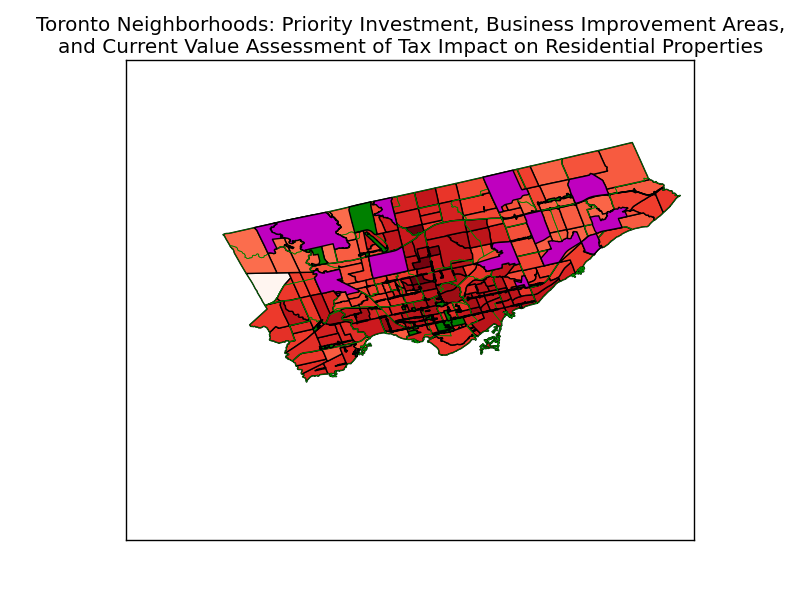
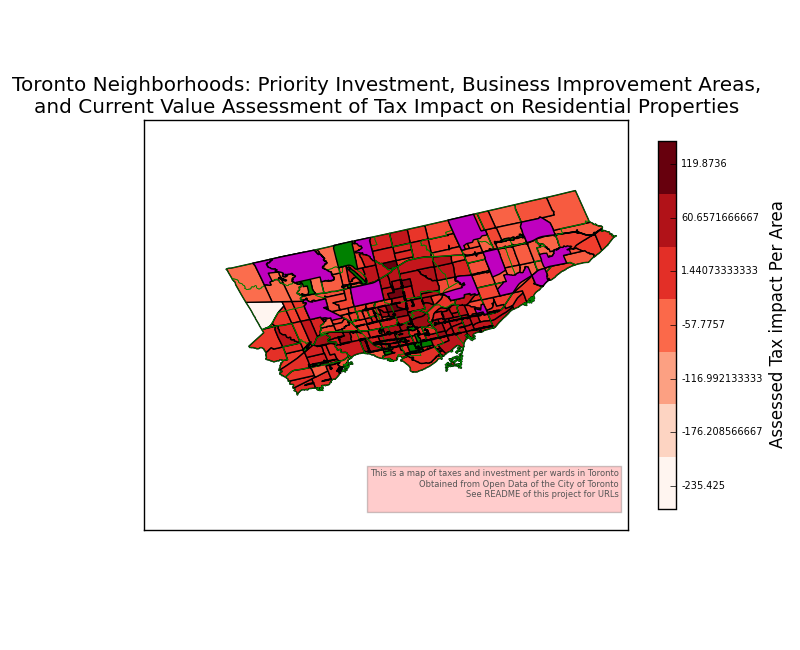
discretized matplotlib colorbar for the taxes in Toronto wards, automatically saving the fig to PNG, and set_tight_layout() and set_size_inches()

Changed region(s): [[0.0, 0.03, 1.0, 0.93]]

diff --git a/visualiz_investm_toronto_neighborhoods.py b/visualiz_investm_toronto_neighborhoods.py
@@ -40,55 +40,6 @@ import matplotlib.cm as cm
 import numpy as np
 
 
-# The following two functions, colorbar_index() and cmap_discretize()
-# are taken from:
-#   http://sensitivecities.com/so-youd-like-to-make-a-map-using-python-EN.html
-# and
-#
-
-# Convenience functions for working with colour ramps and bars
-def colorbar_index(ncolors, cmap, labels=None, **kwargs):
-    """
-    This is a convenience function to stop you making off-by-one errors
-    Takes a standard colour ramp, and discretizes it,
-    then draws a colour bar with correctly aligned labels
-    """
-    cmap = cmap_discretize(cmap, ncolors)
-    mappable = cm.ScalarMappable(cmap=cmap)
-    mappable.set_array([])
-    mappable.set_clim(-0.5, ncolors+0.5)
-    colorbar = plt.colorbar(mappable, **kwargs)
-    colorbar.set_ticks(np.linspace(0, ncolors, ncolors))
-    colorbar.set_ticklabels(range(ncolors))
-    if labels:
-        colorbar.set_ticklabels(labels)
-    return colorbar
-
-
-def cmap_discretize(cmap, N):
-    """
-    Return a discrete colormap from the continuous colormap cmap.
-
-        cmap: colormap instance, eg. cm.jet. 
-        N: number of colors.
-
-    Example
-        x = resize(arange(100), (5,100))
-        djet = cmap_discretize(cm.jet, 5)
-        imshow(x, cmap=djet)
-
-    """
-    if type(cmap) == str:
-        cmap = get_cmap(cmap)
-    colors_i = np.concatenate((np.linspace(0, 1., N), (0., 0., 0., 0.)))
-    colors_rgba = cmap(colors_i)
-    indices = np.linspace(0, 1., N + 1)
-    cdict = {}
-    for ki, key in enumerate(('red', 'green', 'blue')):
-        cdict[key] = [(indices[i], colors_rgba[i - 1, ki], colors_rgba[i, ki]) for i in xrange(N + 1)]
-    return LinearSegmentedColormap(cmap.name + "_%d" % N, cdict, 1024)
-
-
 def visualize_investment_in_toronto():
     """Function to visualize the investment in the neighborhoods of
     Toronto.
@@ -198,16 +149,26 @@ def visualize_investment_in_toronto():
 
     cmap = plt.get_cmap('Reds')
     patch_collection = PatchCollection(patches, match_original=True)
-    norm = Normalize(vmin=min(taxes), vmax=max(taxes))
+    min_taxes = min(taxes)
+    max_taxes = max(taxes)
+    norm = Normalize(min_taxes, max_taxes)
     patch_collection.set_facecolor(cmap(norm(taxes)))
 
     axes.add_collection(patch_collection)
 
     # Add a colour bar
-    cb = colorbar_index(ncolors=len(taxes), cmap=cmap, shrink=0.7,
-                         labels=taxes)
-    # Set the font-size of the label
-    cb.ax.tick_params(labelsize=7)
+    delta_gradient_taxes = max_taxes - min_taxes
+    color_bar_taxes = [min_taxes]
+    for i in range(1, 6):
+        color_bar_taxes.append(min_taxes + (i/6.0) * delta_gradient_taxes)
+    color_bar_taxes.append(max_taxes)
+
+    clor_bar = colorbar_index(ncolors=len(color_bar_taxes), cmap=cmap,
+                              shrink=0.6, labels=color_bar_taxes,
+                              format='%.2f')
+    # Set the font-size of the tick labels in the color bar
+    clor_bar.ax.tick_params(labelsize=7)
+    clor_bar.set_label(label='Assessed Tax Impact per Area')
 
     # Show highest densities, in descending order
     # highest = '\n'.join(
@@ -216,7 +177,7 @@ def visualize_investment_in_toronto():
 
     # Subtraction is necessary for precise y coordinate alignment
 
-    # details = cb.ax.text(
+    # details = clor_bar.ax.text(
     #    -1., 0 - 0.007,
     #    highest,
     #    ha='right', va='bottom',
@@ -227,13 +188,13 @@ def visualize_investment_in_toronto():
     # ( http://matplotlib.org/api/axes_api.html#matplotlib.axes.Axes.text )
 
     smallprint = axes.text(
-       0.98, 0.05,
-       'This is a map of taxes and investment per wards in Toronto\nObtained from Open Data of the City of Toronto\nSee README of this project for URLs\n',
-       horizontalalignment='right', verticalalignment='bottom',
-       size=4,
-       color='#555555',
-       bbox=dict(facecolor='red', alpha=0.2),
-       transform=axes.transAxes)
+        0.98, 0.05,
+        'This is a map of taxes and investment per wards in Toronto\nObtained from Open Data of the City of Toronto\nSee README of this project for URLs\n',
+        horizontalalignment='right', verticalalignment='bottom',
+        size=6,
+        color='#555555',
+        bbox=dict(facecolor='red', alpha=0.2),
+        transform=axes.transAxes)
 
     # Draw a map scale
 
@@ -246,13 +207,14 @@ def visualize_investment_in_toronto():
     #    fontcolor='#555555',
     #    zorder=5)
 
-    plt.tight_layout()
-    fig.set_size_inches(7.22, 5.25)
+    fig.set_tight_layout(True)
+    fig.set_size_inches(8, 6.5)
 
     plt.title('Toronto Neighborhoods: Priority Investment, Business ' +
               'Improvement Areas,\nand Current Value Assessment of Tax ' +
               'Impact on Residential Properties')
     # plt.legend()
+    fig.savefig('TO_developm_neighborhoods.png')
     plt.show()
 
 
@@ -264,6 +226,56 @@ def main():
     """
 
     visualize_investment_in_toronto()
+
+
+# The following two functions, colorbar_index() and cmap_discretize()
+# are taken from, with some very minor changes:
+#   http://sensitivecities.com/so-youd-like-to-make-a-map-using-python-EN.html
+# and
+#   http://brandonrose.org/pythonmap
+
+# Convenience functions for working with colour ramps and bars
+def colorbar_index(ncolors, cmap, labels=None, **kwargs):
+    """
+    This is a convenience function to stop you making off-by-one errors
+    Takes a standard colour ramp, and discretizes it,
+    then draws a colour bar with correctly aligned labels
+    """
+    cmap = cmap_discretize(cmap, ncolors)
+    mappable = cm.ScalarMappable(cmap=cmap)
+    mappable.set_array([])
+    mappable.set_clim(-0.5, ncolors+0.5)
+    colorbar = plt.colorbar(mappable, **kwargs)
+    colorbar.set_ticks(np.linspace(0, ncolors, ncolors))
+    colorbar.set_ticklabels(range(ncolors))
+    if labels:
+        colorbar.set_ticklabels(labels)
+    return colorbar
+
+
+def cmap_discretize(cmap, num):
+    """
+    Return a discrete colormap from the continuous colormap cmap.
+
+        cmap: colormap instance, eg. cm.jet.
+        num: number of colors.
+
+    Example
+        x = resize(arange(100), (5,100))
+        djet = cmap_discretize(cm.jet, 5)
+        imshow(x, cmap=djet)
+
+    """
+    if isinstance(cmap, str):
+        cmap = plt.get_cmap(cmap)
+    colors_i = np.concatenate((np.linspace(0, 1., num), (0., 0., 0., 0.)))
+    colors_rgba = cmap(colors_i)
+    indices = np.linspace(0, 1., num + 1)
+    cdict = {}
+    for c_i, key in enumerate(('red', 'green', 'blue')):
+        cdict[key] = [(indices[i], colors_rgba[i - 1, c_i], colors_rgba[i, c_i])
+                      for i in xrange(num + 1)]
+    return LinearSegmentedColormap(cmap.name + "_%d" % num, cdict, 1024)
 
 
 if __name__ == '__main__':
